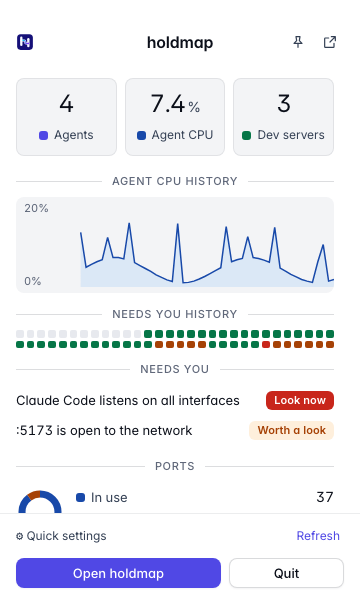
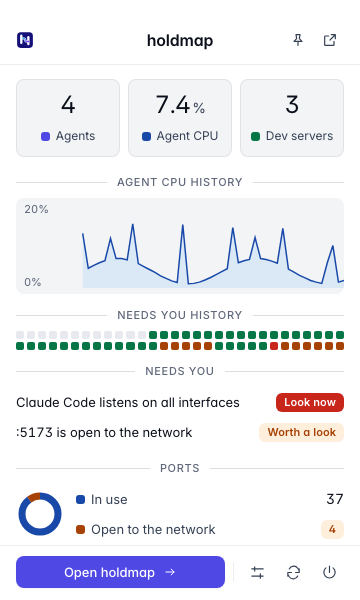
fix(desktop): keep tray chrome anchored during section navigation

diff --git a/apps/desktop/src/tray-panel/TrayPanel.svelte b/apps/desktop/src/tray-panel/TrayPanel.svelte
@@ -2,7 +2,7 @@
   // The tray popup panel: live readings, the agents' CPU history, an attention history and the
   // lists a system monitor's popover shows, for holdmap's own data. Every row runs a tray action
   // id from the data; stops still open the reviewed plan in the main window.
-  import { onDestroy, onMount } from "svelte";
+  import { onDestroy, onMount, tick } from "svelte";
   import { applyTheme, savedTheme, THEMES } from "./theme";
   import { prefSet } from "../lib/prefs";
   import { humanBytes } from "../lib/format";
@@ -15,6 +15,8 @@
 
   let data = $state<PanelData | null>(null);
   let failed = $state(false);
+  let readings: HTMLDivElement;
+  let refreshing = false;
   let settingsOpen = $state(false);
   let busy = $state(false);
   let actionError = $state("");
@@ -24,7 +26,7 @@
     busy = true;
     actionError = "";
     try { await run(action); await refresh(); }
-    catch { actionError = "Couldn’t save that setting. Please try again."; }
+    catch { actionError = action === "refresh" ? "Couldn’t refresh. Please try again." : "Couldn’t save that setting. Please try again."; }
     finally { busy = false; }
   }
   async function chooseTheme(next: typeof theme) {
@@ -37,13 +39,14 @@
   let timer: ReturnType<typeof setInterval> | undefined;
 
   async function refresh() {
-    if (document.visibilityState === "hidden") return;
+    if (document.visibilityState === "hidden" || refreshing) return;
+    refreshing = true;
     try {
       data = await load();
       failed = false;
     } catch {
       failed = true;
-    }
+    } finally { refreshing = false; }
   }
   function onKey(e: KeyboardEvent) {
     if (e.key === "Escape" && !e.isComposing) {
@@ -83,7 +86,15 @@
     if (!data?.focus || data.focusSeq === shownSeq) return;
     settingsOpen = false;
     shownSeq = data.focusSeq;
-    document.querySelector(`[data-section="${data.focus}"]`)?.scrollIntoView({ block: "start" });
+    const section = data.focus;
+    // scrollIntoView also scrolls the document (even with overflow:hidden), which moves the
+    // entire popup upward in WKWebView. Only the readings viewport may move. Wait for a
+    // settings-to-overview switch to finish before measuring its section.
+    void tick().then(() => {
+      const target = Array.from(readings.querySelectorAll<HTMLElement>("[data-section]"))
+        .find(el => el.dataset.section === section);
+      if (target) readings.scrollTop += target.getBoundingClientRect().top - readings.getBoundingClientRect().top;
+    });
   });
   async function pin() {
     await run("pin-panel");
@@ -91,7 +102,7 @@
   }
 </script>
 
-<svelte:window onkeydown={onKey} />
+<svelte:window onkeydown={onKey} onfocus={() => theme = savedTheme()} onstorage={() => theme = savedTheme()} />
 
 <main class="panel" aria-label="holdmap at a glance">
   <header class="head">
@@ -107,7 +118,7 @@
     </span>
   </header>
 
-  <div class="body" hidden={settingsOpen}>
+  <div class="body" bind:this={readings} hidden={settingsOpen}>
     {#if failed && data}<p class="empty" role="status">Readings may be out of date. Reconnecting…</p>{/if}
     {#if failed && !data}
       <p class="empty">Couldn't read the latest scan. It will try again in a moment.</p>
@@ -283,25 +294,28 @@
         {/if}
         <button type="button" class="setting-row" role="switch" aria-checked={settings.notify} disabled={busy} onclick={() => changeSetting("notify")}><span>Desktop notifications</span><span class="switch" class:checked={settings.notify} aria-hidden="true"></span></button>
       {/if}
-      {#if actionError}<p class="empty" role="alert">{actionError}</p>{/if}
     </section>
   {/if}
 
-  <footer class="foot">
-    <div class="footer-tools">
-      <button id="quick-settings-toggle" type="button" class="settings-toggle" aria-expanded={settingsOpen} onclick={() => settingsOpen = !settingsOpen}>⚙ {settingsOpen ? "Back to overview" : "Quick settings"}</button>
-      <button type="button" class="link" onclick={() => changeSetting("refresh")} disabled={busy}>Refresh</button>
-    </div>
-    <div class="footer-actions">
-    <button type="button" class="btn primary" onclick={() => run("show")}>Open holdmap</button>
-    <button type="button" class="btn" onclick={() => run("quit")}>Quit</button>
-    </div>
+  <footer class="foot" aria-label="Panel actions">
+    {#if actionError}<p class="action-error" role="alert">{actionError}</p>{/if}
+    <button type="button" class="btn primary" onclick={() => run("show")}>Open holdmap <svg viewBox="0 0 24 24" width="14" height="14" aria-hidden="true"><path d="M5 12h14m-5-5 5 5-5 5" /></svg></button>
+    <span class="footer-divider" aria-hidden="true"></span>
+    <button id="quick-settings-toggle" type="button" class="icon-btn" class:on={settingsOpen} aria-label={settingsOpen ? "Back to overview" : "Quick settings"} title={settingsOpen ? "Back to overview" : "Quick settings"} aria-expanded={settingsOpen} onclick={() => settingsOpen = !settingsOpen}>
+      <svg viewBox="0 0 24 24" width="17" height="17" aria-hidden="true"><path d="M4 7h16M4 17h16M8 4v6M16 14v6" /></svg>
+    </button>
+    <button type="button" class="icon-btn" aria-label="Refresh" title="Refresh readings" onclick={() => changeSetting("refresh")} disabled={busy}>
+      <svg viewBox="0 0 24 24" width="17" height="17" aria-hidden="true"><path d="M20 7v5h-5M4 17v-5h5M6 7a7 7 0 0 1 12-1l2 3M4 15l2 3a7 7 0 0 0 12-1" /></svg>
+    </button>
+    <button type="button" class="icon-btn quit" aria-label="Quit" title="Quit holdmap" onclick={() => run("quit")}>
+      <svg viewBox="0 0 24 24" width="17" height="17" aria-hidden="true"><path d="M12 3v9M7 5.5a8 8 0 1 0 10 0" /></svg>
+    </button>
   </footer>
 </main>
 
 <style>
-  .panel { display: flex; flex-direction: column; height: 100dvh; min-height: 0; overflow: hidden; background: var(--surface); color: var(--text); font-variant-numeric: tabular-nums; }
-  .head { flex-shrink: 0; display: grid; grid-template-columns: 60px 1fr 60px; align-items: center; padding: 28px 16px 8px; -webkit-user-select: none; user-select: none; }
+  .panel { position: fixed; inset: 0; display: grid; grid-template-rows: auto minmax(0, 1fr) auto; overflow: hidden; background: var(--surface); color: var(--text); font-variant-numeric: tabular-nums; }
+  .head { display: grid; grid-template-columns: 60px 1fr 60px; align-items: center; padding: 26px 16px 10px; border-bottom: 1px solid var(--border); -webkit-user-select: none; user-select: none; }
   .tools { display: flex; justify-content: flex-end; gap: 4px; }
   .icon-btn.on { color: var(--accent); background: var(--accent-soft); }
   .ports { display: grid; grid-template-columns: 48px 1fr; gap: 12px; align-items: center; }
@@ -319,7 +333,7 @@
   .churn .closed { fill: var(--tone-amber); }
   .logo { border-radius: 4px; }
   h1 { margin: 0; text-align: center; font-size: var(--fs-title); line-height: var(--lh-title); font-weight: var(--fw-semibold); letter-spacing: var(--ls-title); }
-  .body { flex: 1 1 0; min-height: 0; overscroll-behavior: contain; scrollbar-gutter: stable; overflow-y: auto; padding: 4px 16px 12px; }
+  .body { min-height: 0; overscroll-behavior: contain; overflow-y: auto; padding: 4px 16px 12px; }
   .hero { display: grid; grid-template-columns: repeat(3, 1fr); gap: 8px; padding: 10px 0 4px; text-align: center; }
   .figure { border: 1px solid var(--border); border-radius: var(--r-md); background: var(--surface-2); padding: 10px 2px; display: flex; flex-direction: column; align-items: center; gap: 4px; }
   .value { display: flex; align-items: baseline; justify-content: center; height: 32px; font-size: var(--fs-display); line-height: var(--lh-display); font-weight: var(--fw-regular); letter-spacing: var(--ls-display); }
@@ -371,11 +385,12 @@
   .link.more { align-self: flex-start; margin-top: 4px; padding-left: 0; }
   .icon-btn { display: grid; place-items: center; width: 28px; height: 28px; border: 0; border-radius: var(--r-sm); background: none; color: var(--text-2); cursor: pointer; }
   .icon-btn:hover { background: var(--row-hover); }
-  .foot { flex: 0 0 auto; padding: 8px 16px 12px; border-top: 1px solid var(--border); background: var(--surface); }
-  .footer-actions { display: flex; gap: 8px; }
-  .footer-tools { display: flex; align-items: center; justify-content: space-between; margin-bottom: 8px; }
-  .settings-toggle { padding: 4px 0; border: 0; background: none; color: var(--text-2); cursor: pointer; font-size: var(--fs-body-sm); }
-  .settings-toggle:hover { color: var(--accent); }
+  .foot { display: flex; flex-wrap: wrap; align-items: center; gap: 6px; padding: 10px 16px 12px; border-top: 1px solid var(--border); background: var(--surface); }
+  .action-error { flex-basis: 100%; margin: 0 0 4px; font-size: var(--fs-body-sm); color: var(--danger); }
+  .footer-divider { width: 1px; height: 20px; margin: 0 2px; background: var(--border); }
+  .foot .icon-btn { width: 30px; height: 32px; flex: none; }
+  .foot svg { fill: none; stroke: currentColor; stroke-width: 1.7; stroke-linecap: round; stroke-linejoin: round; }
+  .quit:hover { color: var(--danger); background: var(--danger-soft, var(--surface-2)); }
   .settings-heading { display: flex; align-items: center; justify-content: space-between; margin-top: 12px; }
   .settings-heading h2 { margin: 0; font-size: var(--fs-heading); }
   .theme-options { display: flex; gap: 4px; padding: 4px; background: var(--surface-2); border-radius: var(--r-md); }
@@ -388,9 +403,9 @@
   .switch.checked { background: var(--accent); }
   .switch.checked::after { transform: translateX(12px); }
   button:disabled { cursor: wait; opacity: .6; }
-  .settings button:focus-visible, .settings-toggle:focus-visible { outline: 2px solid var(--ring); outline-offset: 1px; }
+  .settings button:focus-visible { outline: 2px solid var(--ring); outline-offset: 1px; }
   .body[hidden] { display: none; }
-  .btn { flex: 1; height: 30px; border: 1px solid var(--input-border); border-radius: var(--r-md); background: var(--surface); color: var(--text); font: inherit; font-weight: var(--fw-medium); cursor: pointer; }
+  .btn { display: inline-flex; align-items: center; justify-content: center; gap: 8px; flex: 1; height: 32px; border: 1px solid var(--input-border); border-radius: var(--r-md); background: var(--surface); color: var(--text); font: inherit; font-weight: var(--fw-medium); cursor: pointer; }
   .btn:hover { border-color: var(--input-border-hover); }
   .btn.primary { flex: 2; border-color: transparent; background: var(--accent); color: var(--accent-fg); }
   .btn.primary:hover { background: var(--accent-hover); }

diff --git a/scripts/tray-panel-runtime.swift b/scripts/tray-panel-runtime.swift
@@ -1,0 +1,53 @@
+// Owned WKWebView regression fixture. Loads only the local built tray page with synthetic IPC.
+import AppKit
+import WebKit
+
+final class Fixture: NSObject, WKScriptMessageHandler, WKNavigationDelegate {
+    let window: NSWindow
+    let web: WKWebView
+    let output: URL
+    var finished = false
+    init(url: URL, data: String, checks: String, output: URL) {
+        self.output = output
+        let config = WKWebViewConfiguration()
+        config.websiteDataStore = .nonPersistent()
+        config.userContentController.addUserScript(WKUserScript(source: "window.panelData = \(data); window.__TAURI_INTERNALS__ = {invoke: async (cmd) => { if (cmd !== 'tray_panel') return; window.seenFocusSeq = window.panelData.focusSeq; return structuredClone(window.panelData); }};", injectionTime: .atDocumentStart, forMainFrameOnly: true))
+        config.userContentController.addUserScript(WKUserScript(source: checks, injectionTime: .atDocumentEnd, forMainFrameOnly: true))
+        web = WKWebView(frame: NSRect(x: 0, y: 0, width: 360, height: 600), configuration: config)
+        window = NSWindow(contentRect: NSRect(x: 100, y: 100, width: 360, height: 600), styleMask: [.titled, .fullSizeContentView], backing: .buffered, defer: false)
+        super.init()
+        config.userContentController.add(self, name: "fixture")
+        window.title = "holdmap tray layout fixture"
+        window.titleVisibility = .hidden
+        window.titlebarAppearsTransparent = true
+        for button: NSWindow.ButtonType in [.closeButton, .miniaturizeButton, .zoomButton] { window.standardWindowButton(button)?.isHidden = true }
+        window.contentView = web
+        window.isReleasedWhenClosed = false
+        web.navigationDelegate = self
+        window.makeKeyAndOrderFront(nil)
+        web.load(URLRequest(url: url))
+        DispatchQueue.main.asyncAfter(deadline: .now() + 45) { if !self.finished { self.finish(["error": "Native fixture timed out"]) } }
+    }
+    func userContentController(_ userContentController: WKUserContentController, didReceive message: WKScriptMessage) {
+        guard !finished else { return }
+        if let report = message.body as? [String: Any] { finish(report) }
+    }
+    func finish(_ report: [String: Any]) {
+        guard !finished else { return }
+        finished = true
+        web.takeSnapshot(with: nil) { image, error in
+            if let tiff = image?.tiffRepresentation, let bitmap = NSBitmapImageRep(data: tiff), let png = bitmap.representation(using: .png, properties: [:]) {
+                try? png.write(to: self.output.appendingPathExtension("png"))
+            }
+            if let bytes = try? JSONSerialization.data(withJSONObject: report, options: [.prettyPrinted, .sortedKeys]) { try? bytes.write(to: self.output) }
+            self.window.close()
+            NSApplication.shared.terminate(nil)
+        }
+    }
+    func webView(_ webView: WKWebView, didFailProvisionalNavigation navigation: WKNavigation!, withError error: Error) { finish(["error": error.localizedDescription]) }
+}
+let args = CommandLine.arguments
+let app = NSApplication.shared
+app.setActivationPolicy(.accessory)
+let fixture = Fixture(url: URL(string: args[1])!, data: try String(contentsOfFile: args[2], encoding: .utf8), checks: try String(contentsOfFile: args[3], encoding: .utf8), output: URL(fileURLWithPath: args[4]))
+app.run()

diff --git a/apps/desktop/e2e/tray-panel.test.ts b/apps/desktop/e2e/tray-panel.test.ts
@@ -45,6 +45,12 @@ test("every tray panel row is a keyboard-reachable button", async ({ page }) => 
   expect(names).toContain("Stop all…");
   expect(names.some((n) => n.startsWith(":3000"))).toBe(true);
   expect(names.some((n) => n.startsWith("Claude Code · storefront"))).toBe(true);
+  for (const name of ["Quick settings", "Refresh", "Quit"]) {
+    const button = page.getByRole("button", { name, exact: true });
+    await button.focus();
+    await expect(button).toBeFocused();
+    await expect(button).toBeInViewport();
+  }
 });
 
 for (const height of [480, 600, 720]) {
@@ -65,9 +71,46 @@ for (const height of [480, 600, 720]) {
     expect(await page.evaluate(() => document.documentElement.scrollWidth - innerWidth)).toBe(0);
     const { violations } = await new AxeBuilder({ page }).analyze();
     expect(violations.map(v => v.id)).toEqual([]);
-    if (process.env.HOLDMAP_UPDATE_SCREENSHOTS && height === 600) await page.screenshot({ path: "../../docs/screenshots/desktop-tray-settings-dark.png" });
+    if (process.env.HOLDMAP_UPDATE_SCREENSHOTS && height === 600) {
+      await page.locator(".settings").evaluate(el => el.scrollTop = 0);
+      await page.screenshot({ path: "../../docs/screenshots/desktop-tray-settings-dark.png" });
+    }
     await page.keyboard.press("Escape");
     await expect(page.getByRole("button", { name: /Quick settings/ })).toBeFocused();
     await expect(page.locator(".body").first()).toBeVisible();
   });
 }
+
+test("menu-bar section changes scroll only the readings, never the window chrome", async ({ page }) => {
+  const { demoPanel } = await import("../src/lib/tray-panel");
+  await page.setViewportSize({ width: 360, height: 600 });
+  await page.addInitScript((data) => {
+    const fixture = window as unknown as { panelData: typeof data; seenSeq: number; __TAURI_INTERNALS__: unknown };
+    fixture.panelData = data;
+    fixture.__TAURI_INTERNALS__ = { invoke: async (command: string) => {
+      fixture.seenSeq = fixture.panelData.focusSeq;
+      return command === "tray_panel" ? structuredClone(fixture.panelData) : undefined;
+    } };
+  }, demoPanel());
+  await page.goto("/tray.html");
+  await expect(page.getByRole("heading", { name: "holdmap" })).toBeVisible();
+  for (const [i, section] of ["agents", "needs", "dev", "cpu", "top", "agents"].entries()) {
+    await page.evaluate(({ section, seq }) => {
+      const fixture = window as unknown as { panelData: { focus: string; focusSeq: number } };
+      fixture.panelData.focus = section;
+      fixture.panelData.focusSeq = seq;
+    }, { section, seq: i + 1 });
+    await expect.poll(() => page.evaluate(() => (window as unknown as { seenSeq: number }).seenSeq)).toBe(i + 1);
+    await expect(page.locator(`[data-section="${section}"]`)).toBeInViewport();
+    const bounds = await page.evaluate(() => ({
+      head: document.querySelector(".head")!.getBoundingClientRect().top,
+      foot: document.querySelector(".foot")!.getBoundingClientRect().bottom,
+      root: document.scrollingElement!.scrollTop,
+      height: innerHeight,
+    }));
+    expect(bounds.root, section).toBe(0);
+    expect(bounds.head, section).toBe(0);
+    expect(bounds.foot, section).toBe(bounds.height);
+    await expect(page.getByRole("button", { name: "Quit", exact: true })).toBeInViewport();
+  }
+});

diff --git a/apps/desktop/src/tray-panel/tray-panel.test.ts b/apps/desktop/src/tray-panel/tray-panel.test.ts
@@ -65,7 +65,11 @@ describe("Tray panel", () => {
 
   it("opens at the section of the menu-bar item clicked, once per click", async () => {
     const scrolled: string[] = [];
-    Element.prototype.scrollIntoView = function (this: Element) { scrolled.push(this.getAttribute("data-section") ?? ""); };
+    vi.spyOn(Element.prototype, "getBoundingClientRect").mockImplementation(function (this: Element) {
+      const section = this.getAttribute("data-section");
+      if (section) scrolled.push(section);
+      return { top: 0 } as DOMRect;
+    });
     let data = { ...demoPanel(), focus: "dev", focusSeq: 1 };
     const view = render(TrayPanel, { load: async () => data, run: vi.fn(), poll: 20 });
     await waitFor(() => expect(scrolled).toEqual(["dev"]));

diff --git a/scripts/check-tray-panel-runtime.py b/scripts/check-tray-panel-runtime.py
@@ -1,0 +1,59 @@
+#!/usr/bin/env python3
+"""Verify the built tray in an owned, ephemeral native macOS WKWebView.
+
+Uses synthetic IPC, no real app state, scans or permissions. Captures only its own webview.
+Run npm run build in apps/desktop first. Optional --output keeps the report and screenshot.
+"""
+import argparse
+import json
+from pathlib import Path
+import platform
+import shutil
+import subprocess
+import tempfile
+import time
+import urllib.request
+
+REPO = Path(__file__).resolve().parents[1]
+DESKTOP = REPO / 'apps/desktop'
+
+
+def run(output):
+    if platform.system() != 'Darwin':
+        raise SystemExit('Requires macOS WKWebView')
+    with tempfile.TemporaryDirectory(prefix='holdmap-tray-runtime-') as directory:
+        root = Path(directory)
+        result = root / 'report.json'
+        data = subprocess.check_output(['node', '--experimental-strip-types', '--input-type=module', '-e',
+            "import {demoPanel} from './apps/desktop/src/lib/tray-panel.ts'; console.log(JSON.stringify(demoPanel()))"], cwd=REPO)
+        (root / 'data.json').write_bytes(data)
+        executable = root / 'tray-fixture'
+        subprocess.run(['xcrun', 'swiftc', str(REPO / 'scripts/tray-panel-runtime.swift'), '-o', str(executable)], check=True, timeout=90)
+        server = subprocess.Popen(['node', 'node_modules/vite/bin/vite.js', 'preview', '--host', '127.0.0.1', '--port', '4176', '--strictPort'], cwd=DESKTOP, stdout=subprocess.DEVNULL, stderr=subprocess.PIPE)
+        try:
+            for _ in range(100):
+                if server.poll() is not None:
+                    raise RuntimeError(server.stderr.read().decode())
+                try:
+                    urllib.request.urlopen('http://127.0.0.1:4176/tray.html', timeout=1).close()
+                    break
+                except OSError:
+                    time.sleep(.05)
+            subprocess.run([str(executable), 'http://127.0.0.1:4176/tray.html', str(root / 'data.json'), str(REPO / 'scripts/tray-panel-fixture.mjs'), str(result)], check=True, timeout=55)
+            report = json.loads(result.read_text())
+            if output:
+                output.parent.mkdir(parents=True, exist_ok=True)
+                shutil.copy2(result, output)
+                if result.with_suffix('.json.png').exists():
+                    shutil.copy2(result.with_suffix('.json.png'), output.with_suffix('.png'))
+            assert report.get('status') == 'passed', report
+            print(f"PASS native WKWebView: {len(report['reports'])} layout checks; section navigation, polling, settings and keyboard keep header/footer fixed")
+        finally:
+            server.terminate()
+            server.wait(timeout=5)
+
+
+if __name__ == '__main__':
+    parser = argparse.ArgumentParser(description=__doc__)
+    parser.add_argument('--output', type=Path)
+    run(parser.parse_args().output)

diff --git a/site/src/content/docs/desktop.md b/site/src/content/docs/desktop.md
@@ -153,8 +153,9 @@ monitor for your agents and dev servers, on macOS, Windows and Linux.
   It keeps updating while it's open, follows your theme and closes when you click elsewhere or
   press `Esc`; the pin button keeps it open. Choose an item, a dev server or an agent to open
   it in the window. **Stop all…** opens the stop plan in the window; nothing is stopped from
-  the panel. The fixed footer keeps **Open holdmap**, **Quit**, **Refresh** and **Quick settings**
-  within reach while the readings scroll. Quick settings offers System / Light / Dark themes,
+  the panel. The fixed header and compact footer stay in place while only the readings scroll,
+  including when switching menu-bar items. The footer offers **Open holdmap** and named icon
+  buttons for **Quick settings**, **Refresh**, and **Quit** (hover for labels). Quick settings offers System / Light / Dark themes,
   the widgets available on your desktop, combining menu-bar items and Dock visibility on macOS,
   and desktop notifications. **All settings** opens the full Settings window. Press `Esc` once
   to return from quick settings to the overview.

diff --git a/CHANGELOG.md b/CHANGELOG.md
@@ -31,6 +31,7 @@ by [release-please](https://github.com/googleapis/release-please) from
 
 ### Fixed
 
+- The tray panel no longer scrolls its whole document when opening a menu-bar section, which displaced the header and footer and left a large blank area. Only the readings scroll; a compact footer keeps Open holdmap, Quick settings, Refresh and Quit available. Native WKWebView checks cover section changes, polling, settings and keyboard focus.
 - Home's Map shows once its layout is final, so its labels no longer jump as it opens, and lays labels out from their real width in the font they're drawn in, so they don't overlap on any platform.
 - `Esc` closes a port's menu, and every other action menu, even in the instant after it opens, before focus has moved into it.
 - Choices such as Home / List / Graph switch at once instead of fading their fill and text together, which passed through frames where the label couldn't be read against its background.

diff --git a/CONTRIBUTING.md b/CONTRIBUTING.md
@@ -89,6 +89,7 @@ scripts/check-versions.sh
 scripts/check-secrets.sh                     # full Git history and tracked/new source; needs a full clone
 python3 scripts/test-release-security.py    # isolated release input regressions; never publishes
 python3 scripts/check-updater-runtime.py    # macOS: real signed scratch install and relaunch
+python3 scripts/check-tray-panel-runtime.py # macOS: owned WKWebView tray scroll, footer, polling and keyboard regression
 python3 scripts/check-window-lifecycle-runtime.py # interactive macOS: owned close/fullscreen/reopen regression
 python3 scripts/check-screen-recording-runtime.py # macOS: synthetic MP4/GIF/PNG, real WKWebView and binary IPC; needs FFmpeg
 python3 scripts/check-screen-recording-runtime.py --app-ui # macOS: packaged recorder gates + owned app-view PNG; no screen picker
